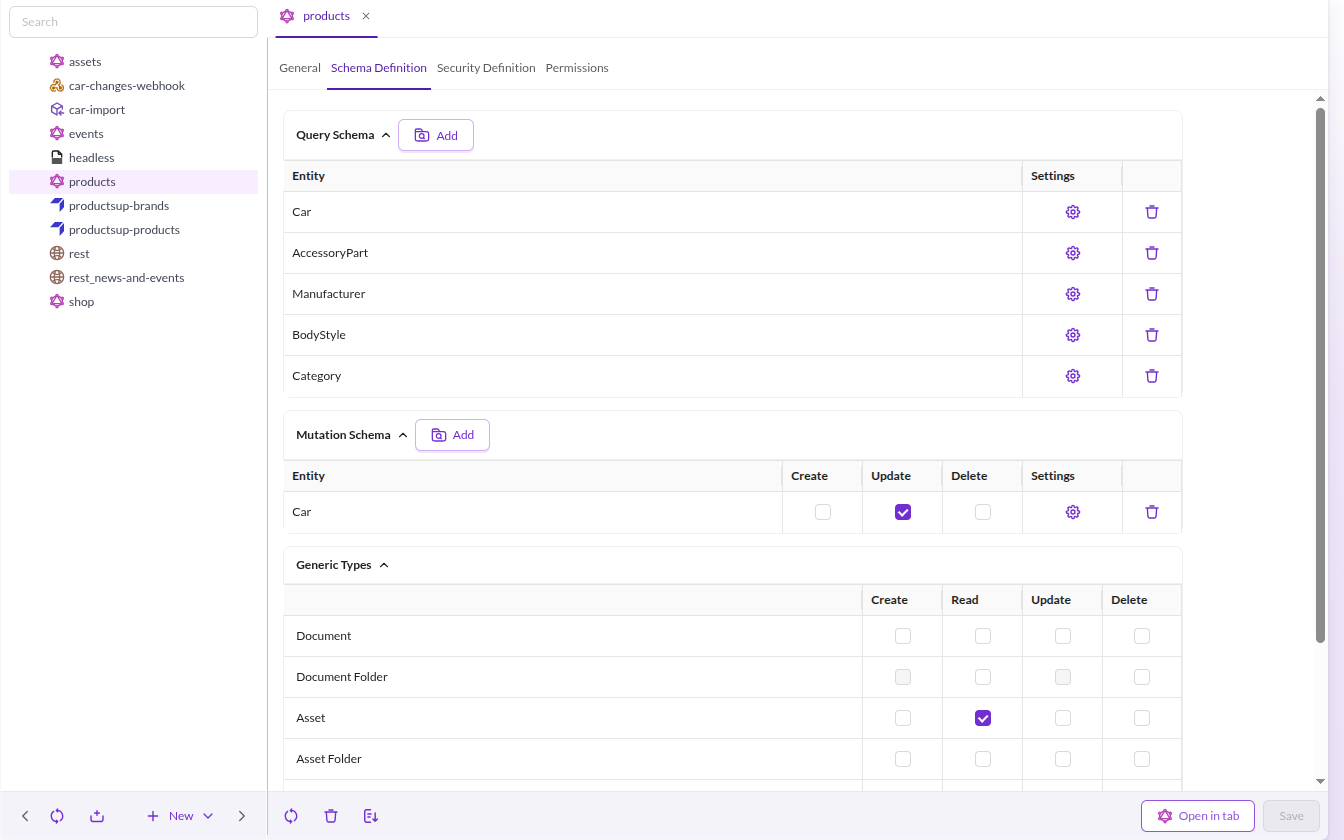
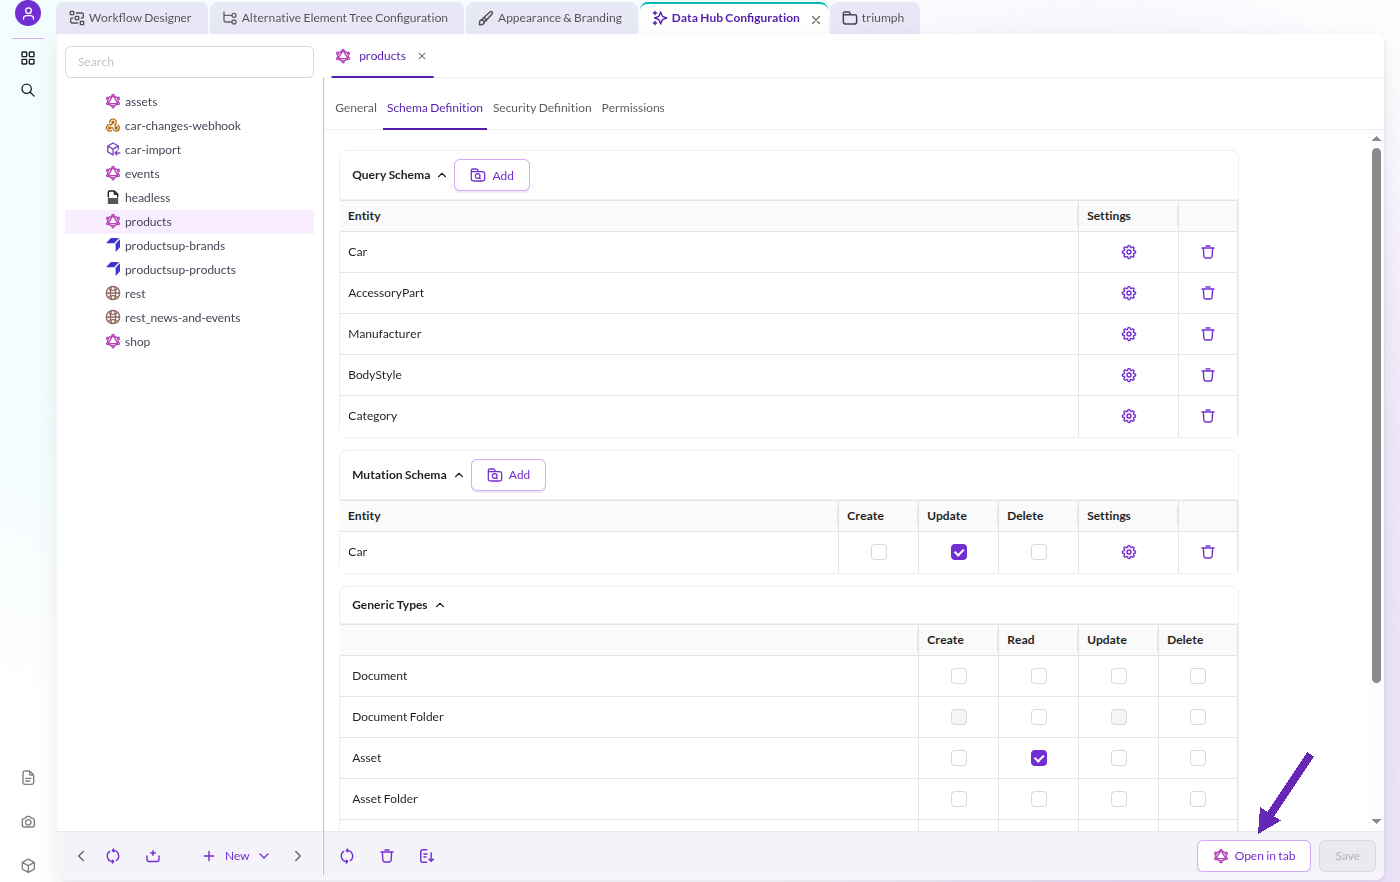
Recapture the two GraphQL screenshots that lost their annotation
Both were annotated Admin Classic captures whose recapture dropped the
explanation, so they are re-shot in Pimcore Studio at 1440x900 with the side
panels collapsed and the annotation reproduced.

manufacturer_listing.png
  The original was the Manufacturer grid sorted by Name with purple boxes on
  exactly the three rows a `limit 3, offset 1, sortBy: name` query returns. The
  previous recapture was sorted by ID, unannotated, and did not even include
  Aston Martin in frame, so it no longer showed anything the page claims. Now
  sorted by Name, with the box on Alfa Romeo (28), Aston Martin (240) and
  Austin-Healey (35). "Total 27 items" matches the documented totalCount.

open_explorer.png
  The original had arrows on the two buttons that open the GraphQL Playground.
  The previous recapture was an unannotated Schema Definition tab showing no
  query, no response and no Playground, while the caption above it described
  writing a query. Studio now has a single `Open in tab` button in the panel
  footer, so the arrow points at that.

The prose is corrected to match: this section is about opening the Playground,
and the "write a query on the left" sentence moves up to iexplorer.png, which
is the image that actually shows it. Descriptive alt text on all three.

diff --git a/doc/10_GraphQL/README.md b/doc/10_GraphQL/README.md
@@ -11,9 +11,11 @@ and services via GraphQL and testing them right away in the integrated GraphQL P
 
 [![Preview](../img/graphql/intro_preview.png)](../img/graphql/intro.mp4)
 
+In the Playground, write a query on the left, run it, and the response appears on the right.
+
 <div class="image-as-lightbox"></div>
 
-![Explorer](../img/graphql/iexplorer.png)
+![GraphQL Playground with a query on the left and the response on the right](../img/graphql/iexplorer.png)
 
 
 ## Configuration
@@ -60,12 +62,11 @@ See following pages for a general overview of possible mutations:
 
 
 ## Hands-On Testing with the GraphQL Playground
-The GraphQL Playground opens for an endpoint in the browser. Write a query on the left, run it, and the response
-appears on the right.
+Open the GraphQL Playground for an endpoint with the `Open in tab` button in the configuration panel footer.
 
 <div class="image-as-lightbox"></div>
 
-![Open iExplorer](../img/graphql/open_explorer.png)
+![Open in tab button in the configuration panel footer](../img/graphql/open_explorer.png)
 
 
 ## Events

diff --git a/doc/10_GraphQL/04_Query/11_Query_Samples/20_Sample_Manufacturer_Listing.md b/doc/10_GraphQL/04_Query/11_Query_Samples/20_Sample_Manufacturer_Listing.md
@@ -2,7 +2,7 @@
 
 <div class="image-as-lightbox"></div>
 
-![Grid](../../../img/graphql/manufacturer_listing.png)
+![Manufacturer grid sorted by name, with the three rows the query returns marked](../../../img/graphql/manufacturer_listing.png)
 
 ### Request
 
